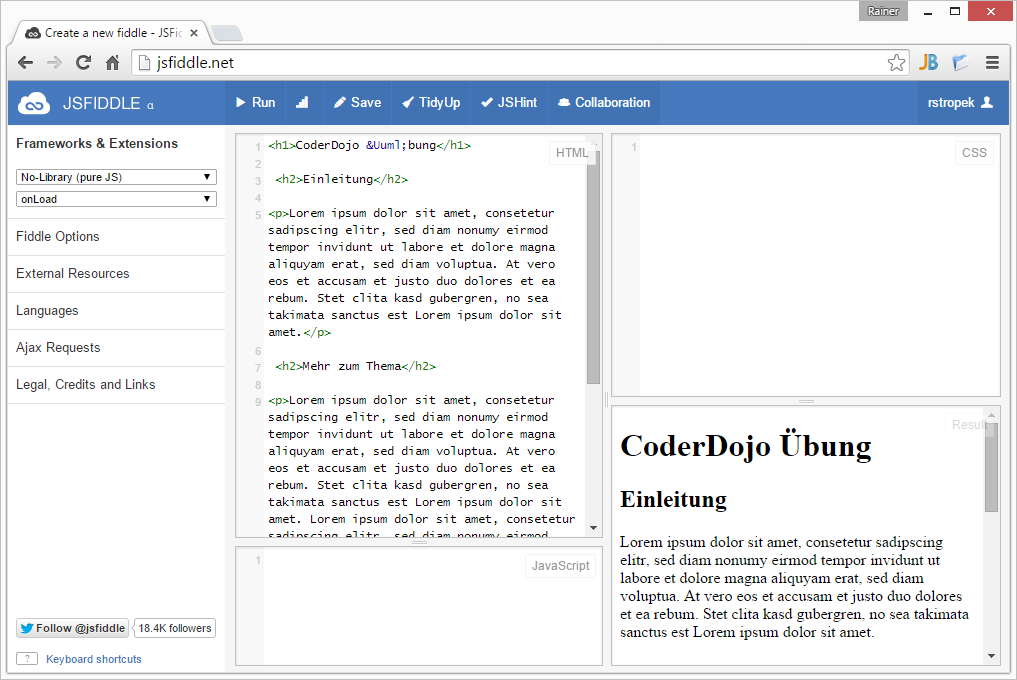
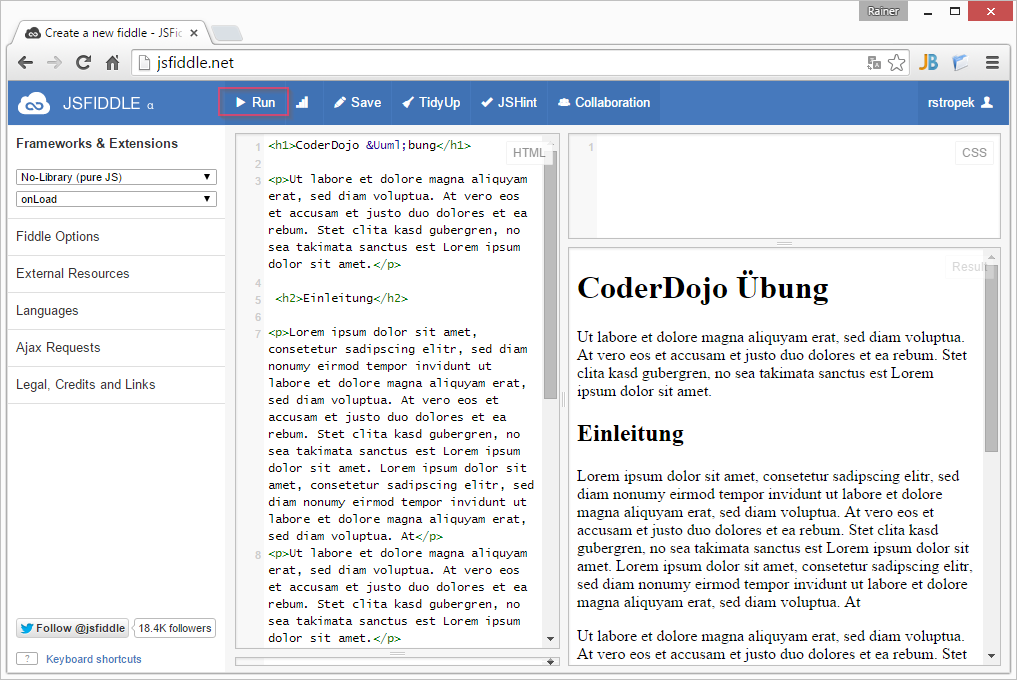
css übung

Changed region(s): [[0.2439, 0.2162, 1.0, 0.9882], [0.2134, 0.1235, 0.3048, 0.1853], [0.762, 0.3397, 0.7925, 0.3706]]

diff --git a/trainingsanleitungen/web/erste-schritte-mit-css/content.html b/trainingsanleitungen/web/erste-schritte-mit-css/content.html
@@ -1,0 +1,88 @@
+<!DOCTYPE html>
+<html>
+    
+    <head>
+        <title>Erste Schritte mit CSS</title>
+        <style>
+            body {
+                font-family:'Arial';
+            }
+            h1 {
+                font-family: ;
+                color: #1a1a1a;
+                font-size: 4em;
+                background: #F2E6E6;
+                line-height: 150px;
+                margin: 0px 0px 0px 10px;
+                padding-left: 20px;
+            }
+            h2 {
+                color: #313131;
+                font-size: 2em;
+                margin-top: 50px;
+                border-bottom: 2px red dotted;
+                overflow: hidden;
+            }
+            p {
+                color: #464646;
+                line-height: 150%;
+                padding-top: 10px;
+                padding-left: 60px;
+            }
+            #intro {
+                font-size: larger;
+                padding-bottom: 10px;
+                background: #c8c8c8;
+                border-left: solid 25px #4c0000;
+                margin-left: 10px;
+                padding-left: 25px;
+            }
+            .highlight {
+                color: #4c0000;
+            }
+            p a {
+                color: #330000;
+                text-decoration: none;
+                border-bottom: 1px red dotted;
+            }
+            p a:visited {
+                color: #b20000;
+            }
+            .sidebar {
+                width: 200px;
+                height: 100%;
+                float: right;
+                background: #b20000;
+                padding: 25px;
+                margin-left: 15px;
+                margin-top: 50px;
+                color: white;
+            }
+        </style>
+    </head>
+    
+    <body>
+        <h1>
+            <span class='highlight'>CoderDojo</span>&Uuml;bung</h1>
+        <p id="intro">Ut labore et dolore magna aliquyam erat, sed diam voluptua. At vero eos et accusam et justo duo dolores et ea rebum. Stet
+            clita kasd gubergren, no sea takimata sanctus est Lorem ipsum dolor sit amet.</p>
+        <div class="sidebar">Mehr zu dem Thema gibt es auf meiner Webseite. Lorem ipsum dolor sit amet, consetetur sadipscing elitr, sed diam nonumy
+            eirmod tempor invidunt ut labore et dolore magna aliquyam erat, sed diam voluptua.</div>
+        <h2>Einleitung</h2>
+        <p>Lorem ipsum
+            <a href="http://www.google.at">dolor sit amet</a>, consetetur sadipscing elitr, sed diam nonumy eirmod tempor invidunt ut labore et dolore magna aliquyam erat, sed diam
+            voluptua. At vero eos et accusam et justo duo dolores et ea rebum. Stet clita kasd gubergren, no sea takimata sanctus est
+            Lorem ipsum dolor sit amet. Lorem ipsum dolor sit amet, consetetur sadipscing elitr, sed diam nonumy eirmod tempor invidunt
+            ut labore et dolore magna aliquyam erat, sed diam voluptua. At</p>
+        <h2>Mehr zum Thema</h2>
+        <p>Lorem ipsum dolor sit amet, consetetur sadipscing elitr, sed diam nonumy eirmod tempor invidunt ut labore et dolore magna
+            aliquyam erat, sed diam voluptua. At vero eos et accusam et justo duo dolores et ea rebum. Stet clita kasd gubergren, no
+            sea takimata sanctus est Lorem ipsum dolor sit amet. Lorem ipsum dolor sit amet, consetetur sadipscing elitr, sed diam nonumy
+            eirmod tempor invidunt ut labore et dolore magna aliquyam erat, sed diam voluptua. At</p>
+        <h2>Abschluss</h2>
+        <p>Lorem ipsum dolor sit amet, consetetur sadipscing elitr, sed diam nonumy eirmod tempor invidunt ut labore et dolore magna
+            aliquyam erat, sed diam voluptua. At vero eos et accusam et justo duo dolores et ea rebum. Stet clita kasd gubergren, no
+            sea takimata sanctus est Lorem ipsum dolor sit amet.</p>
+    </body>
+
+</html>

diff --git a/trainingsanleitungen/web/erste-schritte-mit-css.md b/trainingsanleitungen/web/erste-schritte-mit-css.md
@@ -28,18 +28,21 @@ Zum Experimentiere mit Styles brauchen wir Inhalt, den wir gestalten können. De
 
 1. Erstelle eine Überschrift erster Ordnung: `<h1>CoderDojo &Uuml;bung</h1>`.
 
-3. Als nächstes möchten wir etwas Fließtext. Dazu müssen wir etwas Text generieren. Dafür verwendet man sogenannte *Lorem Ipsum Generatoren*. Sie erzeugen sinnlosen Text, der für Entwürfe als Platzhalter dient. Einen solchen Generator findest du unter [http://www.loremipsum.de/](http://www.loremipsum.de/){:target="_blank"}. Öffne diese Seite, generiere 50 Wörter und kopiere sie in die Zwischenablage. Anschließend füge den kopierten Text in einen HTML-Absatz ein: `<p>Lorem ipsum dolor sit amet ...</p>`.
+2. Als nächstes möchten wir etwas Fließtext. Dazu müssen wir etwas Text generieren. Sehr einfach geht das mit *Lorem Ipsum Generatoren*. Sie erzeugen sinnlosen Text, der für Entwürfe als Platzhalter dient. Einen solchen Generator findest du unter [http://www.loremipsum.de/](http://www.loremipsum.de/){:target="_blank"}. Öffne diese Seite, generiere 50 Wörter und kopiere sie in die Zwischenablage. Anschließend füge den kopierten Text in einen HTML-Absatz ein: `<p>Lorem ipsum dolor sit amet ...</p>`.
 
-2. Erstelle darunter eine Überschrift zweiter Ordnung: `<h2>Einleitung</h2>`.
+3. Erstelle darunter eine Überschrift zweiter Ordnung: `<h2>Einleitung</h2>`.
 
-3. Für analog zu Schritt 2 wieder Fließtext ein.
+4. Für analog zu Schritt 2 wieder Fließtext ein.
 
-4. Wiederhole die Schritte 3 und 4 ein paar Mal mit verändertem Text, damit wir ein wenig Inhalt zum Experimentieren haben.
+5. Wiederhole die Schritte 3 und 4 ein paar Mal mit verändertem Text, damit wir ein wenig Inhalt zum Experimentieren haben.
 
 5. Klicke auf *Run* und kontrolliere, ob dein HTML richtig angezeigt wird.<br/>
 ![Unformatiertes HTML in JSFIDDLE](erste-schritte-mit-css/html-in-jsfiddle.png)
 
 ## Erste Formatierungen
+
+Unser Ziel ist folgendes Layout. Wir möchten es nur mit Hilfe von CSS erreichen, ohne den HTML-Code zu verändern.<br/>
+![HTML mit ersten Formatierungen](erste-schritte-mit-css/html-erste-formatierungen.png)
 
 1. Als erstes ändern wir die Schriftart für den gesamten Text der Seite. Dazu formatieren wir den gesamten *body* der HTML-Seite mit folgendem CSS Element. Füge es in JSFIDDLE rechts oben im Bereich *CSS* ein und probiere die Auswirkung aus, indem du auf *Run* drückst.
 
@@ -52,8 +55,11 @@ Zum Experimentiere mit Styles brauchen wir Inhalt, den wir gestalten können. De
         h1 {
             font-family:'Arial Black';
             color: #1a1a1a;
-            font-size: 3em;
-            margin: 0;
+            font-size: 4em;
+            background: #F2E6E6;
+            line-height: 150px;
+            margin: 0px 0px 0px 10px;
+            padding-left: 20px;
         }
 
 3. Formatiere die Überschriften zweiter Ordnung mit folgendem CSS:
@@ -63,6 +69,7 @@ Zum Experimentiere mit Styles brauchen wir Inhalt, den wir gestalten können. De
             font-size: 2em;
             margin-top: 50px;
             border-bottom: 2px red dotted;
+            overflow: hidden;
         }
 
 
@@ -79,6 +86,9 @@ Zum Experimentiere mit Styles brauchen wir Inhalt, den wir gestalten können. De
 
 ## Klassen und IDs selektieren
 
+Als nächstes möchten wir mit Hilfe von *CSS selectors* gewisse Teile unserer Webseite besonders hervorheben. Unser Ziel ist folgendes Layout:<br/>
+![HTML mit Selektoren](erste-schritte-mit-css/css-mit-selektoren.png)
+
 1. Markiere den ersten Fließtext direkt unter der `h1` Überschrift mit einer CSS Klasse: `<p class='intro'>...</p>`
 
 2. Formatiere den Fließtext mit der Klasse *intro* mit folgendem CSS:
@@ -87,6 +97,9 @@ Zum Experimentiere mit Styles brauchen wir Inhalt, den wir gestalten können. De
             font-size: larger;
             padding-bottom: 10px;
             background: #c8c8c8;
+            border-left: solid 25px #4c0000;
+            margin-left: 10px;
+            padding-left: 25px;
         }
 
 3. Wir möchten in der ersten Überschrift das Wort *CoderDojo* in dunklem Rot hervorheben. Umschließe dafür das Wort *CoderDojo* mit einem `span` Element und ordne die CSS Klasse `highlight` zu: `<h1><span class='highlight'>CoderDojo</span> &Uuml;bung</h1>`.
@@ -103,9 +116,12 @@ Zum Experimentiere mit Styles brauchen wir Inhalt, den wir gestalten können. De
 
 ## Verschachtelte Elemente selektieren
 
+In der nächsten Übung möchten wir Hyperlinks im Fließtext schöner formatieren. So sieht unser Ziel-Layout aus:<br/>
+![HTML mit Selektoren](erste-schritte-mit-css/formatierter-hyperlink.png)
+
 1. Mache im ersten Fließtext-Absatz ein paar Wörter zu einem Hyperlink:
 
-        <p id='intro'>Lorem ipsum <a href="http://www.somewhere.at">dolor sit amet</a>, consetetur ...</p>
+        <p id='intro'>Lorem ipsum <a href="http://www.google.at">dolor sit amet</a>, consetetur ...</p>
 
 2. Aktualisiere das Ergebnis und beachte, wie der Hyperlink standardmäßig formatiert wird.
 
@@ -123,30 +139,99 @@ Zum Experimentiere mit Styles brauchen wir Inhalt, den wir gestalten können. De
             color: #b20000;
         }
 
-## Liste formatieren
+## Arbeiten mit `div`
 
-1. Füge in die *Einleitung* eine Aufzählung ein und aktualisiere das Ergebnis.
+Unser Ziel ist es, einen Kasten mit einem wichtigen Hinweis rechts neben die Einleitung zu setzen.<br/>
+![HTML mit Selektoren](erste-schritte-mit-css/hervorgehobener-kasten.png)
 
-        <ul>
-            <li>Erstens</li>
-            <li>Zweitens</li>
-            <li>Drittens</li>
-            <li>Viertens</li>
-        </ul>
+1. Füge vor der Einleitung den Kastentext hinzu. Umschließe ihn mit einem `div` Element mit der Klasse `sidebar`.
 
-2. Verschönere die Aufzählung ein wenig, indem du die Einrückung und Textfarbe korrigierst:
+        <div class="sidebar">
+                Mehr zu dem Thema gibt es auf meiner Webseite. Lorem ipsum dolor sit amet, consetetur sadipscing elitr, sed diam nonumy eirmod tempor invidunt ut labore et dolore magna aliquyam erat, sed diam voluptua.
+        </div>
 
-        ul {
-            margin-left: 35px;    
-            color: #464646;
+2. Formatiere die *sidebar* mit folgendem CSS. Experimentiere mit den Einstellungen.
+
+        .sidebar {
+            width: 200px;
+            height: 100%;
+            float: right;
+            background: #b20000;
+            padding: 25px;
+            margin-left: 15px;
+            margin-top: 50px;
+            color: white;
         }
-        li {
-            padding-left: 10px;
-        }
 
-3. Zur besseren Übersichtlichkeit möchten wir jede zweite Zeile schattieren. Dazu verwenden wir wieder eine pseudo-Klasse, diesmal `nth-child`:
+## Styles in HTML-Dateien
 
-        li:nth-child(odd) {
-            background: #e0e0e0;
-        }
+Bisher haben wir CSS nur in JSFIDDLE ausprobiert. Zum Abschluss werden wir den erstellten CSS-Code in einer echten HTML-Webseite ausprobieren.
+
+1. Öffne einen beliebigen Texteditor. Es wäre ideal, wenn du einen Editor hast, der HTML und CSS besonders unterstützt. Eine kostenloses Produkt, das diese Funktionen bietet, ist [Visual Studio Code](https://code.visualstudio.com/){:target="_blank"}. Es funktioniert auf Windows, MacOS und Linux. Falls du keinen solchen Editor hast oder installieren kannst, kannst du die folgenden Schritte auch mit jedem anderer, bei dir eingebauten Editor machen (unter Windows z.B. *Notepad*).
+
+2. Lege einen leeren Ordner an.
+
+3. Erstelle mit dem Editor eine Datei namens *content.html* und füge dort folgenden Code ein:
+
+        <!DOCTYPE html>
+        <html>
+        <head>
+        	<title>Erste Schritte mit CSS</title>
+        </head>
+        <body>
+        
+        	<!-- Hier bitte den HTML-Code aus JSFIDDLE einfügen --> 
+        
+        </body>
+        </html>
+
+4. Ersetze den Kommentar `<!-- Hier bitte den HTML-Code aus JSFIDDLE einfügen -->` durch den HTML-Code, den du zuvor in JSFIDDLE geschrieben hast.
+
+        <!DOCTYPE html>
+        <html>
+        <head>
+        	<title>Erste Schritte mit CSS</title>
+        </head>
+        <body>
+        
+        <h1><span class='highlight'>CoderDojo</span> &Uuml;bung</h1>
+        
+        <p id="intro">Ut labore ...</p>
+        
+        <div class="sidebar">Mehr zu dem Thema ...</div>
+        <h2>Einleitung</h2>
+        <p>Lorem ipsum <a href="http://www.google.at">dolor sit amet</a>, consetetur ...</p>
+        
+        <h2>Mehr zum Thema</h2>
+        <p>Lorem ipsum dolor sit amet, consetetur sadipscing elitr, ...</p>
+        
+        <h2>Abschluss</h2>
+        <p>Lorem ipsum dolor sit amet, ...</p> 
+        
+        </body>
+        </html>
+
+5. Füge innerhalb des `head` Elements das Element `style` ein. In das `style` Elements musst du den CSS-Code einfügen, den zuvor in JSFIDDLE erstellt hast. 
+
+        <!DOCTYPE html>
+        <html>
+        <head>
+        	<title>Erste Schritte mit CSS</title>
+            <style>
+               <!-- Hier den CSS Code aus JSFIDDLE einfügen -->
+            </style>
+        </head>
+        <body>
+        ...
+
+6. Falls du einen Editor wie *Visual Studio Code* verwendest, wirst du sehen, dass er dir das Schreiben von CSS erleichtert. Du musst nicht alles auswendig wissen. Der Editor bietet dir Auswahlmöglichkeiten an, zeigt dir gleich an, wie die gewählte Farbe aussieht und vieles mehr.<br/>
+![HTML mit Selektoren](erste-schritte-mit-css/style-in-vscode.png)
+
+7. Öffne die HTML-Datei mit einen Browser. Du solltest die schön formatierte Seite im Browser sehen.
+
+## Weitere Übungen
+
+1. Wir haben ein *internes Stylesheet* erstellt. Lies den Artikel unter [http://www.w3schools.com/css/css_howto.asp](http://www.w3schools.com/css/css_howto.asp){:target="_blank"} und versuche, unser Beispiel auf ein *externes Stylesheet* umzustellen.
+
+2. Wenn du schon etwas Erfahrung mit CSS gesammelt hast, kannst du das [CSS Quiz auf w3schools](http://www.w3schools.com/css/css_quiz.asp){:target="_blank"} probieren. Wie viele Fragen kannst du richtig beantworten? Lies nach, um dein CSS-Wissen noch zu erweitern.
 
